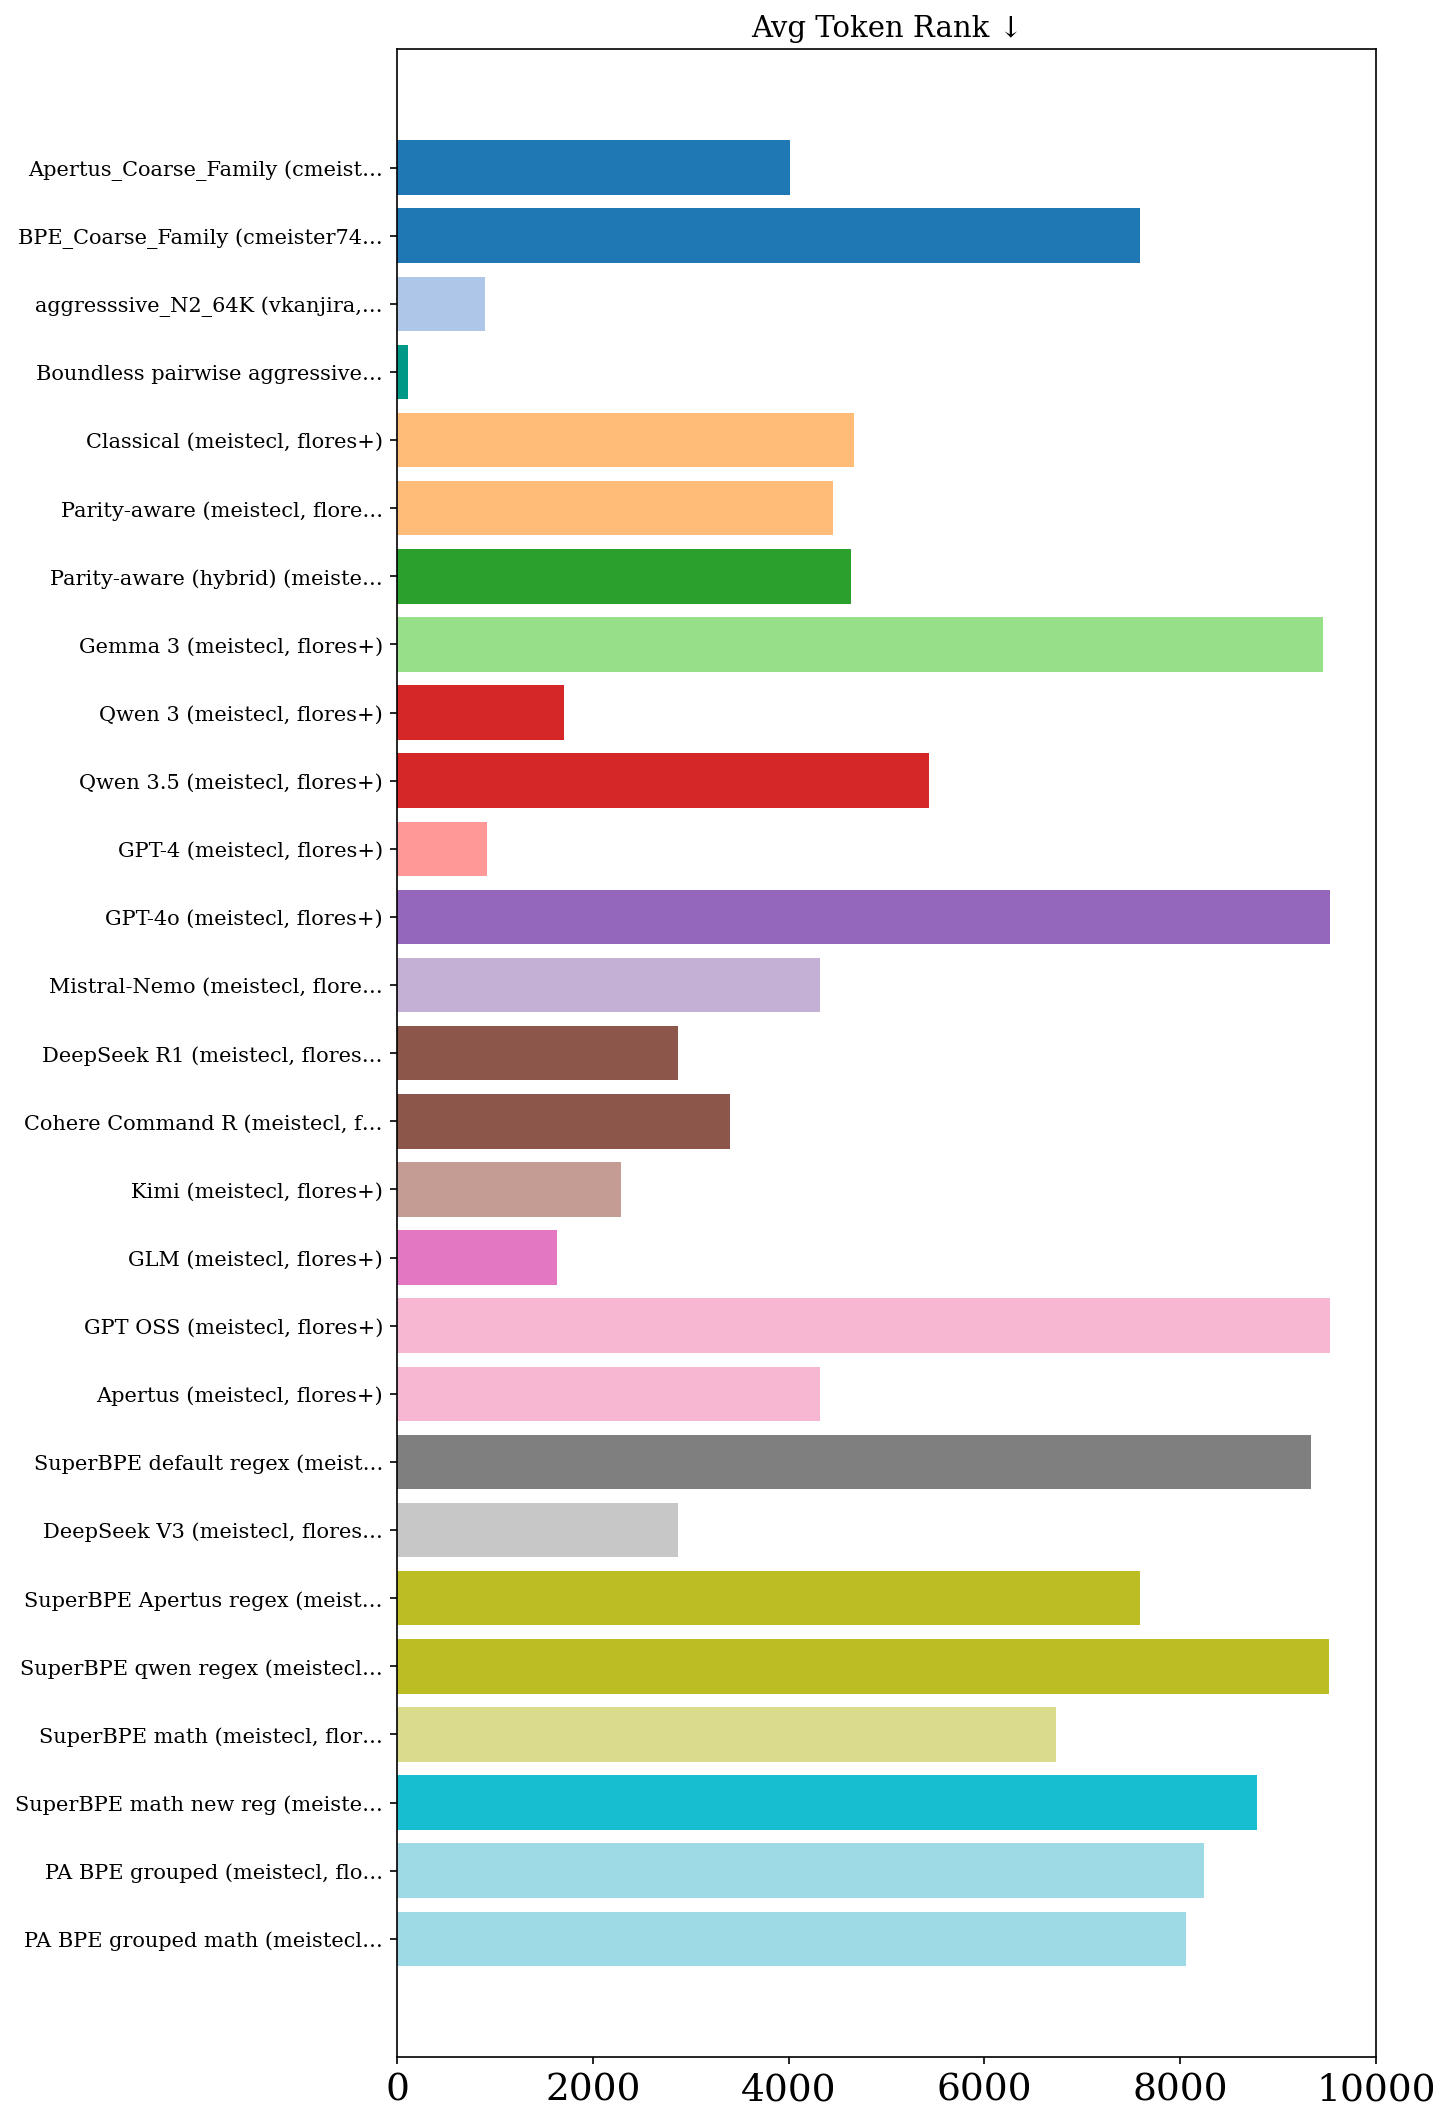
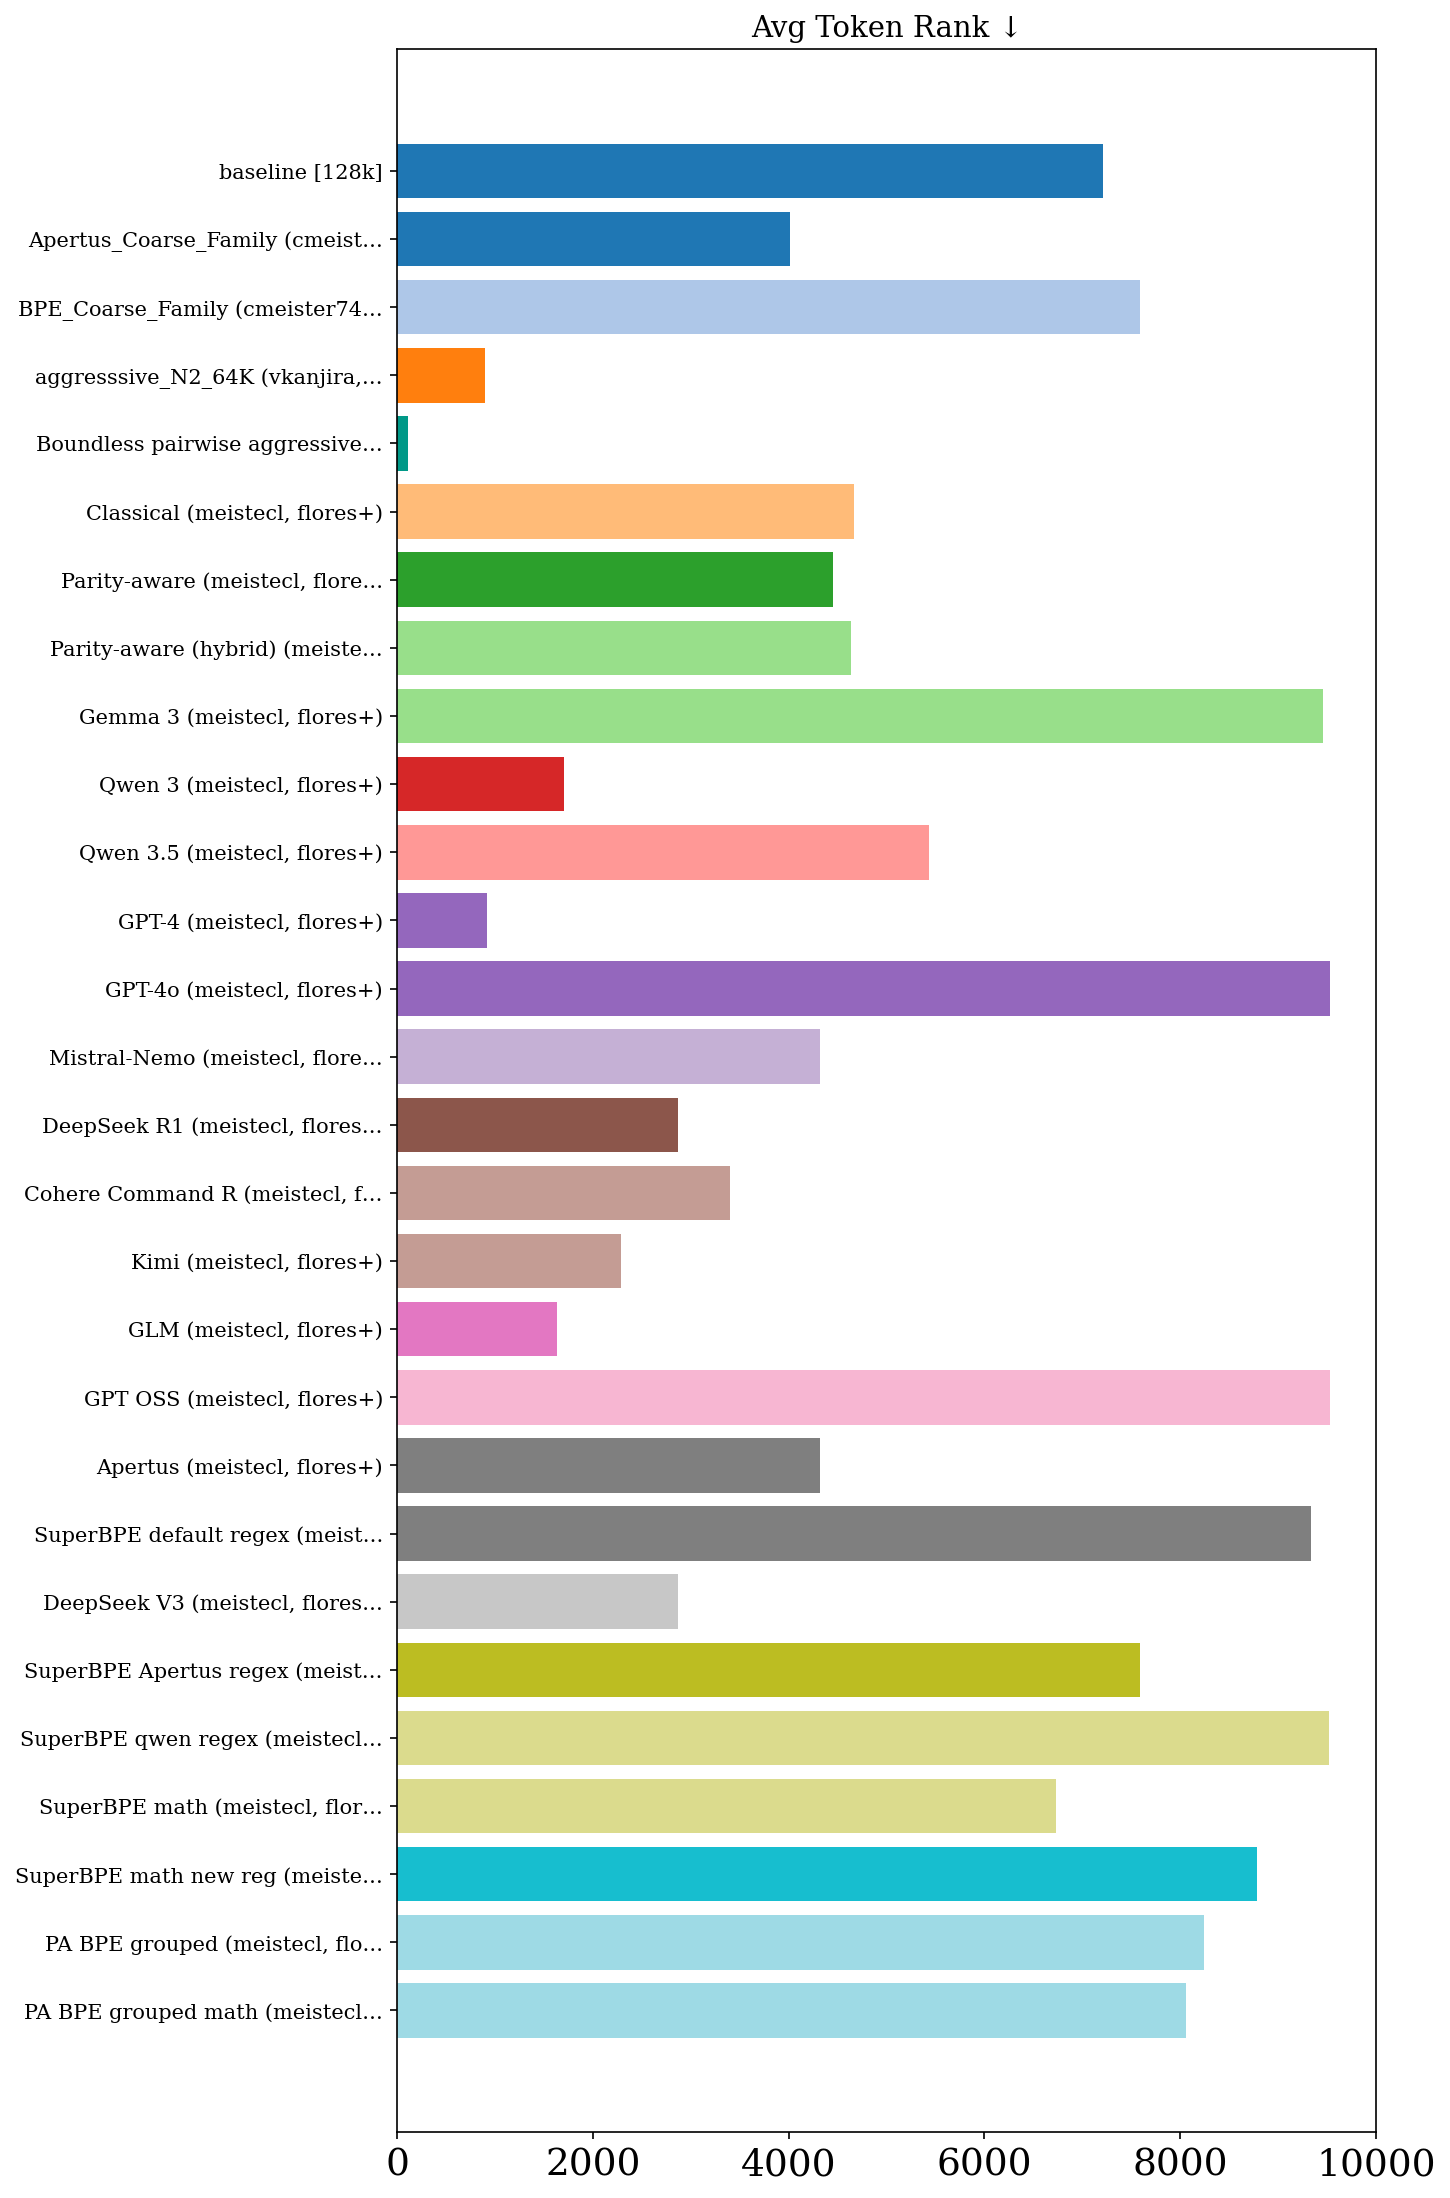
Update RESULTS_flores+_lines.md (2026-05-27 15:38:28)

diff --git a/RESULTS_flores+_lines.md b/RESULTS_flores+_lines.md
@@ -1,33 +1,34 @@
 # Tokenizer Evaluation Results
 
-_Last updated: 2026-03-07 18:23:40_
+_Last updated: 2026-05-27 15:38:30_
 
-| Tokenizer | Vocab Size | Fertility ↓ | Compression Rate ↑ | Vocab Util. ↑ | Avg Token Rank ↓ | Gini ↓ | 3-Digit Align. F1 ↑ | Op. Isolation ↑ | AST Align. ↑ | Ident. Frag. ↓ | Depth Corr. ↑ | Pat. Stability ↑ | Bound. Cross ↓ | Char Split ↓ | Languages | Dataset | User | Date |
-| --- | --- | --- | --- | --- | --- | --- | --- | --- | --- | --- | --- | --- | --- | --- | --- | --- | --- | --- |
-| Apertus_Coarse_Family (cmeister747, flores+) | 131,072 | 67.487 | 0.015 | 0.560 | 4016.1 | 0.302 | --- | 0.249 | 0.065 | 0.033 | -0.039 | 0.997 | 0.0096 | 0.1499 | 92 | flores+ | cmeister747 | 2026-03-06 |
-| BPE_Coarse_Family (cmeister747, flores+) | 131,072 | 49.707 | 0.020 | 0.543 | 7585.0 | 0.096 | 0.335 | 0.494 | 0.724 | 0.434 | -0.039 | 0.997 | 0.0068 | 0.0111 | 92 | flores+ | cmeister747 | 2026-03-06 |
-| aggresssive_N2_64K (vkanjira, flores+) | 60,682 | 67.253 | 0.018 | 0.354 | 893.1 | 0.129 | 0.681 | 0.077 | **0.922** | 0.561 | --- | **1.000** | **0.0000** | 0.0049 | 92 | flores+ | vkanjira | 2026-03-06 |
-| Boundless pairwise aggressive n2 (dkletz, flores+) | 5,033 | 88.335 | 0.013 | 0.644 | **108.7** | 0.082 | --- | 0.047 | --- | --- | --- | --- | --- | --- | 92 | flores+ | dkletz | 2026-02-22 |
-| Classical (meistecl, flores+) | 128,004 | 59.463 | 0.022 | 0.682 | 4663.5 | 0.246 | 0.789 | 0.294 | 0.148 | 0.055 | -0.049 | 0.991 | 0.0574 | 0.1337 | 92 | flores+ | meistecl | 2026-03-03 |
-| Parity-aware (meistecl, flores+) | 128,004 | 59.101 | 0.022 | **0.691** | 4456.6 | 0.220 | 0.736 | 0.294 | 0.188 | 0.082 | -0.049 | 0.991 | 0.0440 | 0.1106 | 92 | flores+ | meistecl | 2026-03-03 |
-| Parity-aware (hybrid) (meistecl, flores+) | 128,004 | 58.267 | 0.022 | 0.691 | 4640.4 | 0.223 | 0.771 | 0.294 | 0.160 | 0.066 | -0.049 | 0.991 | 0.0450 | 0.1107 | 92 | flores+ | meistecl | 2026-03-03 |
-| Gemma 3 (meistecl, flores+) | 262,145 | **46.221** | 0.026 | 0.447 | 9461.6 | 0.126 | 0.451 | 0.509 | 0.088 | 0.030 | -0.091 | 0.965 | 0.0293 | 0.0110 | 92 | flores+ | meistecl | 2026-03-03 |
-| Qwen 3 (meistecl, flores+) | 151,669 | 75.897 | 0.020 | 0.324 | 1699.6 | 0.312 | 0.451 | 0.966 | 0.605 | 0.383 | -0.037 | 0.994 | 0.0561 | 0.2422 | 92 | flores+ | meistecl | 2026-03-03 |
-| Qwen 3.5 (meistecl, flores+) | 248,077 | 53.347 | 0.024 | 0.387 | 5435.7 | 0.204 | 0.451 | 0.966 | 0.680 | 0.381 | -0.037 | 0.994 | 0.0096 | 0.0352 | 92 | flores+ | meistecl | 2026-03-03 |
-| GPT-4 (meistecl, flores+) | 100,261 | 90.200 | 0.018 | 0.302 | 917.5 | 0.362 | 0.793 | 0.966 | 0.605 | 0.383 | -0.037 | 0.994 | 0.0517 | 0.4671 | 92 | flores+ | meistecl | 2026-03-03 |
-| GPT-4o (meistecl, flores+) | 200,000 | 47.045 | **0.027** | 0.522 | 9529.8 | 0.169 | 0.793 | 0.966 | 0.609 | 0.401 | -0.037 | 0.994 | 0.0078 | 0.0475 | 92 | flores+ | meistecl | 2026-03-03 |
-| Mistral-Nemo (meistecl, flores+) | 131,072 | 64.763 | 0.023 | 0.564 | 4318.1 | 0.308 | 0.451 | 0.496 | 0.060 | 0.037 | -0.037 | 0.994 | 0.0171 | 0.1525 | 92 | flores+ | meistecl | 2026-03-03 |
-| DeepSeek R1 (meistecl, flores+) | 128,815 | 62.674 | 0.021 | 0.418 | 2864.6 | 0.229 | 0.793 | 0.496 | 0.000 | --- | -0.037 | 0.994 | 0.0509 | 0.0103 | 92 | flores+ | meistecl | 2026-03-03 |
-| Cohere Command R (meistecl, flores+) | 255,029 | 75.168 | 0.022 | 0.433 | 3397.6 | 0.371 | 0.451 | 0.509 | 0.032 | 0.016 | -0.037 | 0.994 | 0.0474 | 0.0008 | 92 | flores+ | meistecl | 2026-03-03 |
-| Kimi (meistecl, flores+) | 163,840 | 62.820 | 0.020 | 0.244 | 2283.0 | 0.199 | 0.793 | 0.966 | 0.609 | 0.408 | -0.037 | 0.994 | 0.0498 | 0.1139 | 92 | flores+ | meistecl | 2026-03-03 |
-| GLM (meistecl, flores+) | 151,343 | 86.320 | 0.019 | 0.364 | 1631.6 | 0.372 | 0.644 | 0.000 | 0.001 | **0.000** | **0.000** | 1.000 | 0.0000 | **0.0000** | 92 | flores+ | meistecl | 2026-03-03 |
-| GPT OSS (meistecl, flores+) | 200,019 | 47.045 | 0.027 | 0.521 | 9529.8 | 0.169 | 0.793 | 0.966 | 0.609 | 0.401 | -0.037 | 0.994 | 0.0078 | 0.0475 | 92 | flores+ | meistecl | 2026-03-03 |
-| Apertus (meistecl, flores+) | 131,072 | 64.763 | 0.023 | 0.564 | 4318.1 | 0.308 | 0.451 | 0.496 | 0.060 | 0.037 | -0.037 | 0.994 | 0.0171 | 0.1525 | 92 | flores+ | meistecl | 2026-03-03 |
-| SuperBPE default regex (meistecl, flores+) | 130,000 | 46.224 | 0.025 | 0.553 | 9333.4 | 0.106 | 0.793 | 0.407 | 0.225 | 0.028 | -0.037 | 0.994 | 0.0206 | 0.0249 | 92 | flores+ | meistecl | 2026-03-03 |
-| DeepSeek V3 (meistecl, flores+) | 128,815 | 62.674 | 0.021 | 0.418 | 2864.6 | 0.229 | 0.793 | 0.496 | 0.000 | --- | -0.037 | 0.994 | 0.0509 | 0.0103 | 92 | flores+ | meistecl | 2026-03-03 |
-| SuperBPE Apertus regex (meistecl, flores+) | 130,000 | 52.158 | 0.024 | 0.593 | 7591.0 | 0.192 | 0.793 | **0.992** | 0.259 | 0.029 | -0.037 | 0.994 | 0.0085 | 0.0139 | 92 | flores+ | meistecl | 2026-03-03 |
-| SuperBPE qwen regex (meistecl, flores+) | 130,000 | 48.526 | 0.024 | 0.572 | 9524.6 | 0.097 | 0.451 | 0.407 | 0.284 | 0.024 | -0.031 | 0.995 | 0.0292 | 0.0332 | 92 | flores+ | meistecl | 2026-03-03 |
-| SuperBPE math (meistecl, flores+) | 130,000 | 52.985 | 0.024 | 0.543 | 6733.8 | 0.190 | 0.793 | 0.992 | 0.264 | 0.028 | -0.037 | 0.994 | 0.0092 | 0.0126 | 92 | flores+ | meistecl | 2026-03-03 |
-| SuperBPE math new reg (meistecl, flores+) | 130,000 | 46.554 | 0.025 | 0.539 | 8783.4 | 0.112 | **0.891** | 0.263 | 0.230 | 0.027 | -0.037 | 0.994 | 0.0218 | 0.0242 | 92 | flores+ | meistecl | 2026-03-03 |
-| PA BPE grouped (meistecl, flores+) | 120,260 | 47.187 | 0.024 | 0.632 | 8240.1 | **0.064** | 0.722 | 0.294 | 0.159 | 0.067 | -0.049 | 0.991 | 0.0173 | 0.0205 | 92 | flores+ | meistecl | 2026-03-03 |
-| PA BPE grouped math (meistecl, flores+) | 128,260 | 47.533 | 0.024 | 0.606 | 8064.2 | 0.074 | 0.451 | 0.496 | 0.094 | 0.050 | -0.037 | 0.994 | 0.0142 | 0.0242 | 92 | flores+ | meistecl | 2026-03-03 |
+| Tokenizer | Vocab Size | Fertility ↓ | Compression Rate ↑ | Vocab Util. ↑ | Avg Token Rank ↓ | Gini ↓ | Bigram Ent. ↑ | 3-Digit Align. F1 ↑ | Op. Isolation ↑ | Bound. Cross ↓ | Char Split ↓ | CER ↓ | WS Fidelity ↑ | Enc. ms/sample ↓ | Languages | Dataset | User | Date | AST Align. ↑ | Ident. Frag. ↓ | Depth Corr. ↑ | Pat. Stability ↑ |
+| --- | --- | --- | --- | --- | --- | --- | --- | --- | --- | --- | --- | --- | --- | --- | --- | --- | --- | --- | --- | --- | --- | --- |
+| baseline [128k] | 128,000 | 49.076 | 0.020 | 0.566 | 7214.5 | 0.146 | **0.846** | 0.750 | 0.393 | 0.0296 | 0.0257 | **0.0005** | **1.000** | **0.17** | 92 | flores+ | dkletz | 2026-05-14 | --- | --- | --- | --- |
+| Apertus_Coarse_Family (cmeister747, flores+) | 131,072 | 67.487 | 0.015 | 0.560 | 4016.1 | 0.302 | --- | --- | 0.249 | 0.0096 | 0.1499 | --- | --- | --- | 92 | flores+ | cmeister747 | 2026-03-06 | 0.065 | 0.033 | -0.039 | 0.997 |
+| BPE_Coarse_Family (cmeister747, flores+) | 131,072 | 49.707 | 0.020 | 0.543 | 7585.0 | 0.096 | --- | 0.335 | 0.494 | 0.0068 | 0.0111 | --- | --- | --- | 92 | flores+ | cmeister747 | 2026-03-06 | 0.724 | 0.434 | -0.039 | 0.997 |
+| aggresssive_N2_64K (vkanjira, flores+) | 60,682 | 67.253 | 0.018 | 0.354 | 893.1 | 0.129 | --- | 0.681 | 0.077 | **0.0000** | 0.0049 | --- | --- | --- | 92 | flores+ | vkanjira | 2026-03-06 | **0.922** | 0.561 | --- | **1.000** |
+| Boundless pairwise aggressive n2 (dkletz, flores+) | 5,033 | 88.335 | 0.013 | 0.644 | **108.7** | 0.082 | --- | --- | 0.047 | --- | --- | --- | --- | --- | 92 | flores+ | dkletz | 2026-02-22 | --- | --- | --- | --- |
+| Classical (meistecl, flores+) | 128,004 | 59.463 | 0.022 | 0.682 | 4663.5 | 0.246 | --- | 0.789 | 0.294 | 0.0574 | 0.1337 | --- | --- | --- | 92 | flores+ | meistecl | 2026-03-03 | 0.148 | 0.055 | -0.049 | 0.991 |
+| Parity-aware (meistecl, flores+) | 128,004 | 59.101 | 0.022 | **0.691** | 4456.6 | 0.220 | --- | 0.736 | 0.294 | 0.0440 | 0.1106 | --- | --- | --- | 92 | flores+ | meistecl | 2026-03-03 | 0.188 | 0.082 | -0.049 | 0.991 |
+| Parity-aware (hybrid) (meistecl, flores+) | 128,004 | 58.267 | 0.022 | 0.691 | 4640.4 | 0.223 | --- | 0.771 | 0.294 | 0.0450 | 0.1107 | --- | --- | --- | 92 | flores+ | meistecl | 2026-03-03 | 0.160 | 0.066 | -0.049 | 0.991 |
+| Gemma 3 (meistecl, flores+) | 262,145 | **46.221** | 0.026 | 0.447 | 9461.6 | 0.126 | --- | 0.451 | 0.509 | 0.0293 | 0.0110 | --- | --- | --- | 92 | flores+ | meistecl | 2026-03-03 | 0.088 | 0.030 | -0.091 | 0.965 |
+| Qwen 3 (meistecl, flores+) | 151,669 | 75.897 | 0.020 | 0.324 | 1699.6 | 0.312 | --- | 0.451 | 0.966 | 0.0561 | 0.2422 | --- | --- | --- | 92 | flores+ | meistecl | 2026-03-03 | 0.605 | 0.383 | -0.037 | 0.994 |
+| Qwen 3.5 (meistecl, flores+) | 248,077 | 53.347 | 0.024 | 0.387 | 5435.7 | 0.204 | --- | 0.451 | 0.966 | 0.0096 | 0.0352 | --- | --- | --- | 92 | flores+ | meistecl | 2026-03-03 | 0.680 | 0.381 | -0.037 | 0.994 |
+| GPT-4 (meistecl, flores+) | 100,261 | 90.200 | 0.018 | 0.302 | 917.5 | 0.362 | --- | 0.793 | 0.966 | 0.0517 | 0.4671 | --- | --- | --- | 92 | flores+ | meistecl | 2026-03-03 | 0.605 | 0.383 | -0.037 | 0.994 |
+| GPT-4o (meistecl, flores+) | 200,000 | 47.045 | **0.027** | 0.522 | 9529.8 | 0.169 | --- | 0.793 | 0.966 | 0.0078 | 0.0475 | --- | --- | --- | 92 | flores+ | meistecl | 2026-03-03 | 0.609 | 0.401 | -0.037 | 0.994 |
+| Mistral-Nemo (meistecl, flores+) | 131,072 | 64.763 | 0.023 | 0.564 | 4318.1 | 0.308 | --- | 0.451 | 0.496 | 0.0171 | 0.1525 | --- | --- | --- | 92 | flores+ | meistecl | 2026-03-03 | 0.060 | 0.037 | -0.037 | 0.994 |
+| DeepSeek R1 (meistecl, flores+) | 128,815 | 62.674 | 0.021 | 0.418 | 2864.6 | 0.229 | --- | 0.793 | 0.496 | 0.0509 | 0.0103 | --- | --- | --- | 92 | flores+ | meistecl | 2026-03-03 | 0.000 | --- | -0.037 | 0.994 |
+| Cohere Command R (meistecl, flores+) | 255,029 | 75.168 | 0.022 | 0.433 | 3397.6 | 0.371 | --- | 0.451 | 0.509 | 0.0474 | 0.0008 | --- | --- | --- | 92 | flores+ | meistecl | 2026-03-03 | 0.032 | 0.016 | -0.037 | 0.994 |
+| Kimi (meistecl, flores+) | 163,840 | 62.820 | 0.020 | 0.244 | 2283.0 | 0.199 | --- | 0.793 | 0.966 | 0.0498 | 0.1139 | --- | --- | --- | 92 | flores+ | meistecl | 2026-03-03 | 0.609 | 0.408 | -0.037 | 0.994 |
+| GLM (meistecl, flores+) | 151,343 | 86.320 | 0.019 | 0.364 | 1631.6 | 0.372 | --- | 0.644 | 0.000 | 0.0000 | **0.0000** | --- | --- | --- | 92 | flores+ | meistecl | 2026-03-03 | 0.001 | **0.000** | **0.000** | 1.000 |
+| GPT OSS (meistecl, flores+) | 200,019 | 47.045 | 0.027 | 0.521 | 9529.8 | 0.169 | --- | 0.793 | 0.966 | 0.0078 | 0.0475 | --- | --- | --- | 92 | flores+ | meistecl | 2026-03-03 | 0.609 | 0.401 | -0.037 | 0.994 |
+| Apertus (meistecl, flores+) | 131,072 | 64.763 | 0.023 | 0.564 | 4318.1 | 0.308 | --- | 0.451 | 0.496 | 0.0171 | 0.1525 | --- | --- | --- | 92 | flores+ | meistecl | 2026-03-03 | 0.060 | 0.037 | -0.037 | 0.994 |
+| SuperBPE default regex (meistecl, flores+) | 130,000 | 46.224 | 0.025 | 0.553 | 9333.4 | 0.106 | --- | 0.793 | 0.407 | 0.0206 | 0.0249 | --- | --- | --- | 92 | flores+ | meistecl | 2026-03-03 | 0.225 | 0.028 | -0.037 | 0.994 |
+| DeepSeek V3 (meistecl, flores+) | 128,815 | 62.674 | 0.021 | 0.418 | 2864.6 | 0.229 | --- | 0.793 | 0.496 | 0.0509 | 0.0103 | --- | --- | --- | 92 | flores+ | meistecl | 2026-03-03 | 0.000 | --- | -0.037 | 0.994 |
+| SuperBPE Apertus regex (meistecl, flores+) | 130,000 | 52.158 | 0.024 | 0.593 | 7591.0 | 0.192 | --- | 0.793 | **0.992** | 0.0085 | 0.0139 | --- | --- | --- | 92 | flores+ | meistecl | 2026-03-03 | 0.259 | 0.029 | -0.037 | 0.994 |
+| SuperBPE qwen regex (meistecl, flores+) | 130,000 | 48.526 | 0.024 | 0.572 | 9524.6 | 0.097 | --- | 0.451 | 0.407 | 0.0292 | 0.0332 | --- | --- | --- | 92 | flores+ | meistecl | 2026-03-03 | 0.284 | 0.024 | -0.031 | 0.995 |
+| SuperBPE math (meistecl, flores+) | 130,000 | 52.985 | 0.024 | 0.543 | 6733.8 | 0.190 | --- | 0.793 | 0.992 | 0.0092 | 0.0126 | --- | --- | --- | 92 | flores+ | meistecl | 2026-03-03 | 0.264 | 0.028 | -0.037 | 0.994 |
+| SuperBPE math new reg (meistecl, flores+) | 130,000 | 46.554 | 0.025 | 0.539 | 8783.4 | 0.112 | --- | **0.891** | 0.263 | 0.0218 | 0.0242 | --- | --- | --- | 92 | flores+ | meistecl | 2026-03-03 | 0.230 | 0.027 | -0.037 | 0.994 |
+| PA BPE grouped (meistecl, flores+) | 120,260 | 47.187 | 0.024 | 0.632 | 8240.1 | **0.064** | --- | 0.722 | 0.294 | 0.0173 | 0.0205 | --- | --- | --- | 92 | flores+ | meistecl | 2026-03-03 | 0.159 | 0.067 | -0.049 | 0.991 |
+| PA BPE grouped math (meistecl, flores+) | 128,260 | 47.533 | 0.024 | 0.606 | 8064.2 | 0.074 | --- | 0.451 | 0.496 | 0.0142 | 0.0242 | --- | --- | --- | 92 | flores+ | meistecl | 2026-03-03 | 0.094 | 0.050 | -0.037 | 0.994 |
